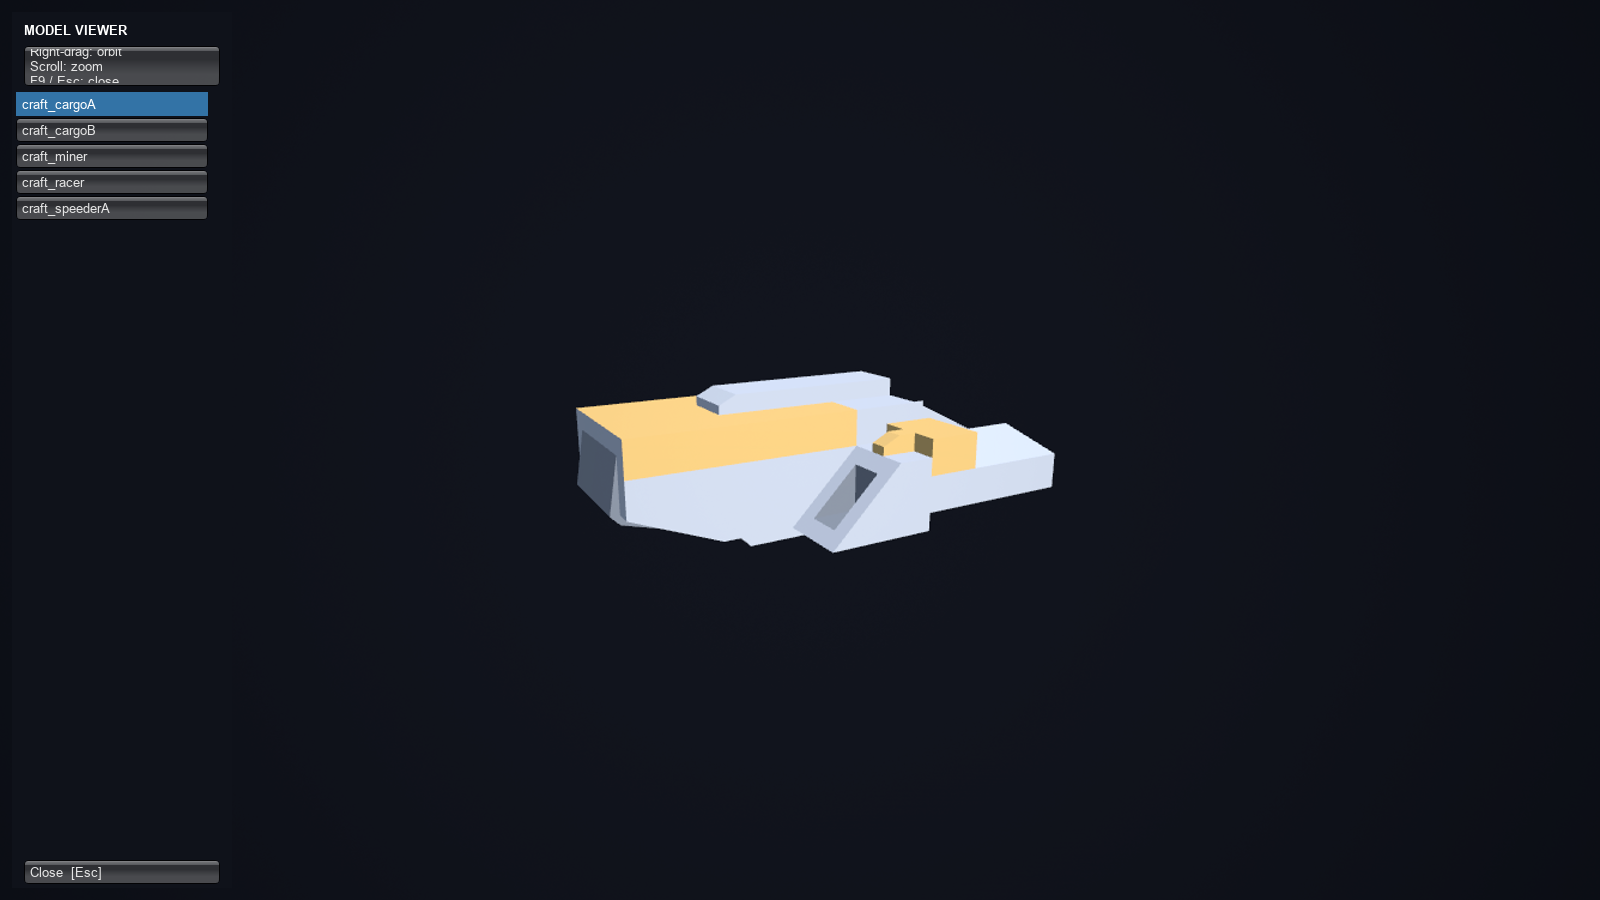
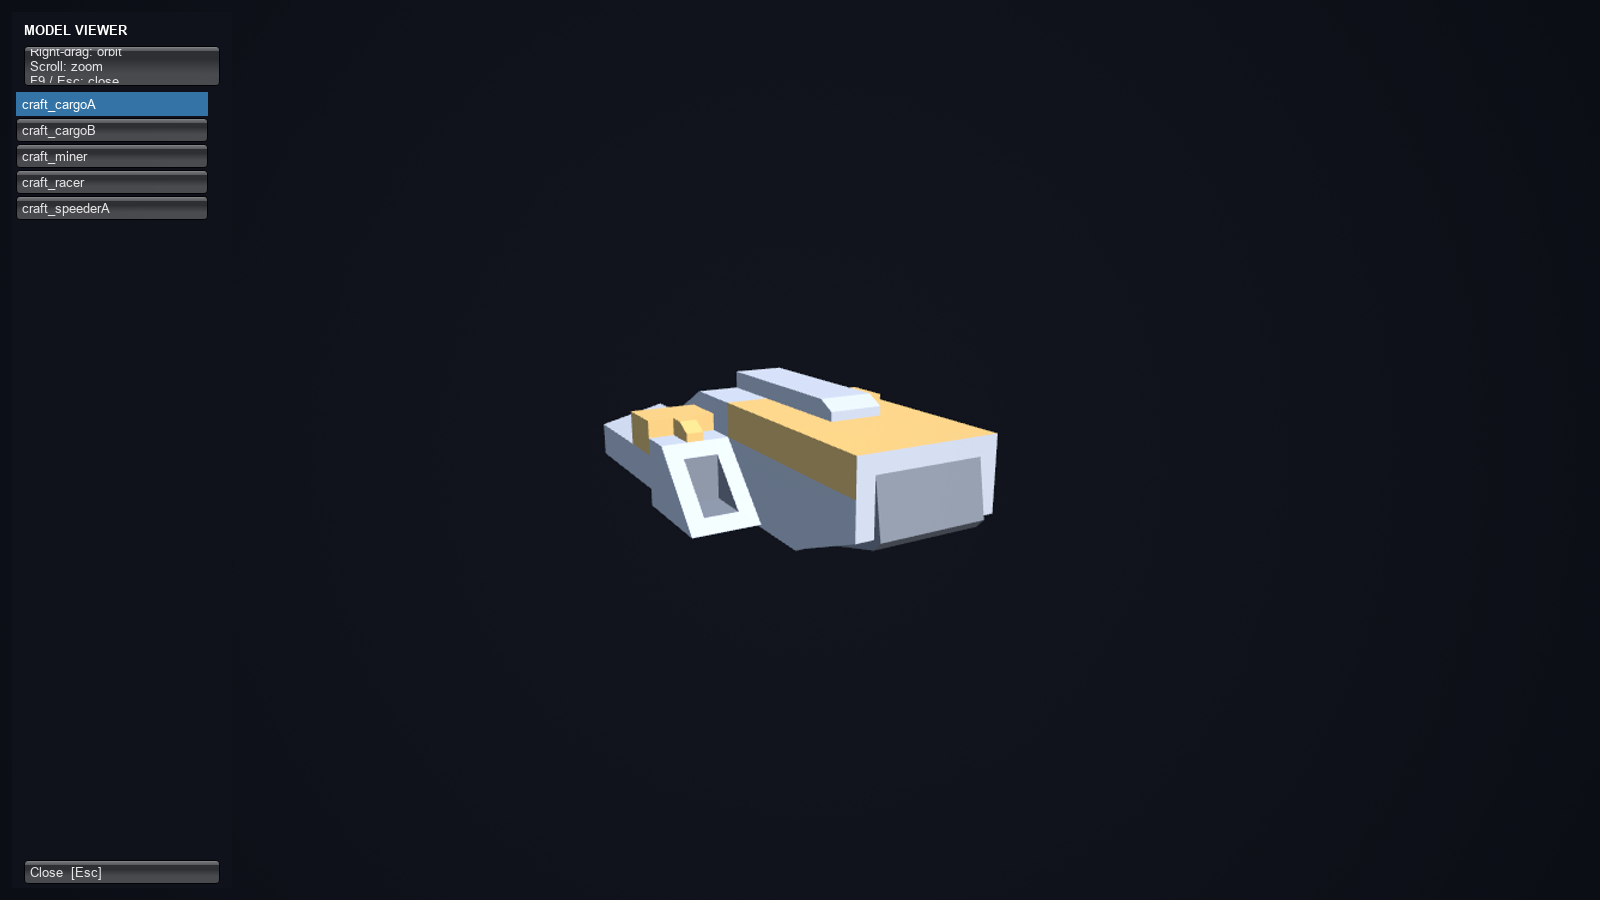
C++ imported models turned as the original's: the glTF import's correction comes from ShipModels.json (correctionEuler with correctionScale) and is applied as the C# facade's Mesh.Correction (Mesh::ImportedRotation; ImportedCorrection(scale, rotation)) instead of a fixed yaw of -90, which turned eve
Claude-Session: https://claude.ai/code/session_01CbRxCK4n9MpME7Nwr7B1wV

Changed region(s): [[0.3438, 0.4044, 0.6562, 0.6222]]

diff --git a/Cpp/Source/UnrealSpaceGod/UnityCompat/UnityRendering.cpp b/Cpp/Source/UnrealSpaceGod/UnityCompat/UnityRendering.cpp
@@ -644,12 +644,13 @@ namespace SpaceGod::UnityCompat
 
 	// ---------------------------------------------------------------- Resources
 
-	FTransform ImportedCorrection(float scale)
+	FTransform ImportedCorrection(float scale, Quaternion rotation)
 	{
-		// Unity's glTF import is glTF with x negated, (-x, y, z); Unreal's Interchange import is (x, z, y) times its unit
-		// scale. Through UnrealSpace's (Unity.z, Unity.x, Unity.y) the Unity mesh is (z, -x, y): from the import that is
-		// X' = Y, Y' = -X, a quarter turn about Z (yaw -90), and the scale back to the glTF's units.
-		return FTransform(FRotator(0, -90, 0), FVector::ZeroVector, FVector(scale));
+		// US-T53: the import's own correction (ShipModels.json: correctionEuler, correctionScale), applied as the C#
+		// facade applies its Mesh.Correction (rotation * correction in Unity space, the scale back to the glTF's units),
+		// which matches the original's glTF import (US-T57's model-viewer diff). The fixed quarter turn (yaw -90) this
+		// used before showed every Kenney craft turned from the original's: the model viewer saw the other side.
+		return FTransform(SpaceGod::UnrealSpace::ToUnreal(rotation), FVector::ZeroVector, FVector(scale));
 	}
 
 	cs::String Resources::ObjectPath(const cs::String& path)
@@ -718,6 +719,7 @@ namespace SpaceGod::UnityCompat
 		{
 			std::vector<ModelPart> Parts;
 			float Scale = 1;
+			Quaternion Rotation = Quaternion::identity();
 		};
 
 		const std::unordered_map<cs::String, ModelSpec>& ModelSpecs()
@@ -741,6 +743,10 @@ namespace SpaceGod::UnityCompat
 					ModelSpec spec;
 					double scale = 1;
 					if (o->TryGetNumberField(TEXT("correctionScale"), scale)) spec.Scale = static_cast<float>(scale);
+					const TArray<TSharedPtr<FJsonValue>>* euler = nullptr;
+					if (o->TryGetArrayField(TEXT("correctionEuler"), euler) && euler->Num() == 3)
+						spec.Rotation = Quaternion::Euler(static_cast<float>((*euler)[0]->AsNumber()), static_cast<float>((*euler)[1]->AsNumber()),
+							static_cast<float>((*euler)[2]->AsNumber()));
 					const TArray<TSharedPtr<FJsonValue>>* parts = nullptr;
 					if (o->TryGetArrayField(TEXT("parts"), parts))
 						for (const auto& pv : *parts)
@@ -774,7 +780,7 @@ namespace SpaceGod::UnityCompat
 		}
 
 		/// An imported part's vertex as it is drawn in Unreal's local frame of its Unity transform, in Unity units.
-		FVector ImportedToLocal(const FVector& imported, float scale) { return ImportedCorrection(scale).TransformPosition(imported); }
+		FVector ImportedToLocal(const FVector& imported, float scale, Quaternion rotation) { return ImportedCorrection(scale, rotation).TransformPosition(imported); }
 
 		float LinearToSrgb(float c) { return c <= 0.0031308f ? c * 12.92f : 1.055f * Mathf::Pow(c, 1.0f / 2.4f) - 0.055f; }
 
@@ -797,13 +803,14 @@ namespace SpaceGod::UnityCompat
 				auto mesh = cs::New<Mesh>(go->name);
 				mesh->ImportedAsset = FromF(part.Mesh);
 				mesh->ImportedScale = spec.Scale;
+				mesh->ImportedRotation = spec.Rotation;
 				// Its bounds in Unity's frame: the asset's box through the same correction UnityScene draws it with.
 				FBox box = asset->GetBoundingBox();
 				Bounds b;
 				for (int i = 0; i < 8; i++)
 				{
 					FVector corner((i & 1) ? box.Max.X : box.Min.X, (i & 2) ? box.Max.Y : box.Min.Y, (i & 4) ? box.Max.Z : box.Min.Z);
-					Vector3 u = ToVector3(US::FromUnreal(ImportedToLocal(corner, spec.Scale) * US::CmPerUnit));
+					Vector3 u = ToVector3(US::FromUnreal(ImportedToLocal(corner, spec.Scale, spec.Rotation) * US::CmPerUnit));
 					if (i == 0) b = Bounds(u, Vector3());
 					else b.Encapsulate(u);
 				}

diff --git a/Cpp/Source/UnrealSpaceGod/UnityCompat/UnityRendering.h b/Cpp/Source/UnrealSpaceGod/UnityCompat/UnityRendering.h
@@ -121,6 +121,9 @@ namespace SpaceGod::UnityCompat
 		/// The streams are left empty; bounds() is set from the asset.
 		cs::String ImportedAsset;
 		float ImportedScale = 1;
+		/// The import's Unity-space correction (ShipModels.json's correctionEuler, US-T53), as the C# facade's
+		/// Mesh.Correction: the part is drawn turned by it in its Unity frame.
+		Quaternion ImportedRotation = Quaternion::identity();
 		/// Engine-side converted copy (UnityScene), rebuilt when Version moves on.
 		std::unique_ptr<NativeHandle> Engine;
 		uint64_t EngineVersion = 0;
@@ -509,8 +512,8 @@ namespace SpaceGod::UnityCompat
 	};
 
 	/// Unreal's transform from an imported model part (Mesh::ImportedAsset) to the Unreal local frame of its Unity
-	/// transform, in Unity units (see UnityScene).
-	FTransform ImportedCorrection(float scale);
+	/// transform, in Unity units (see UnityScene): the import's correction rotation (Unity axes) and scale.
+	FTransform ImportedCorrection(float scale, Quaternion rotation);
 
 	/// A texture made from a decoded image (or from raw RGBA8 mip levels), wrapped as a Unity Texture2D.
 	struct TextureFactory
